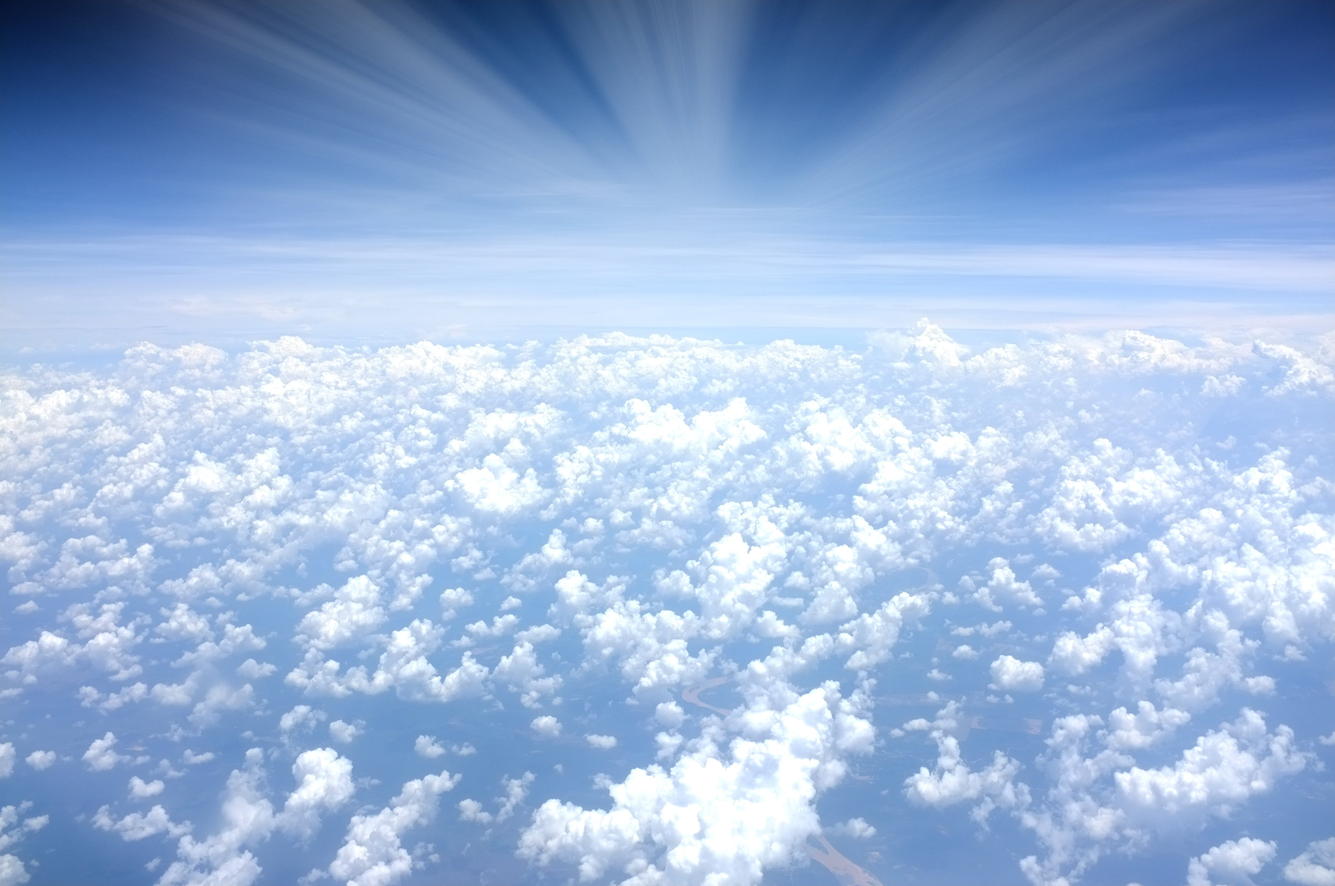
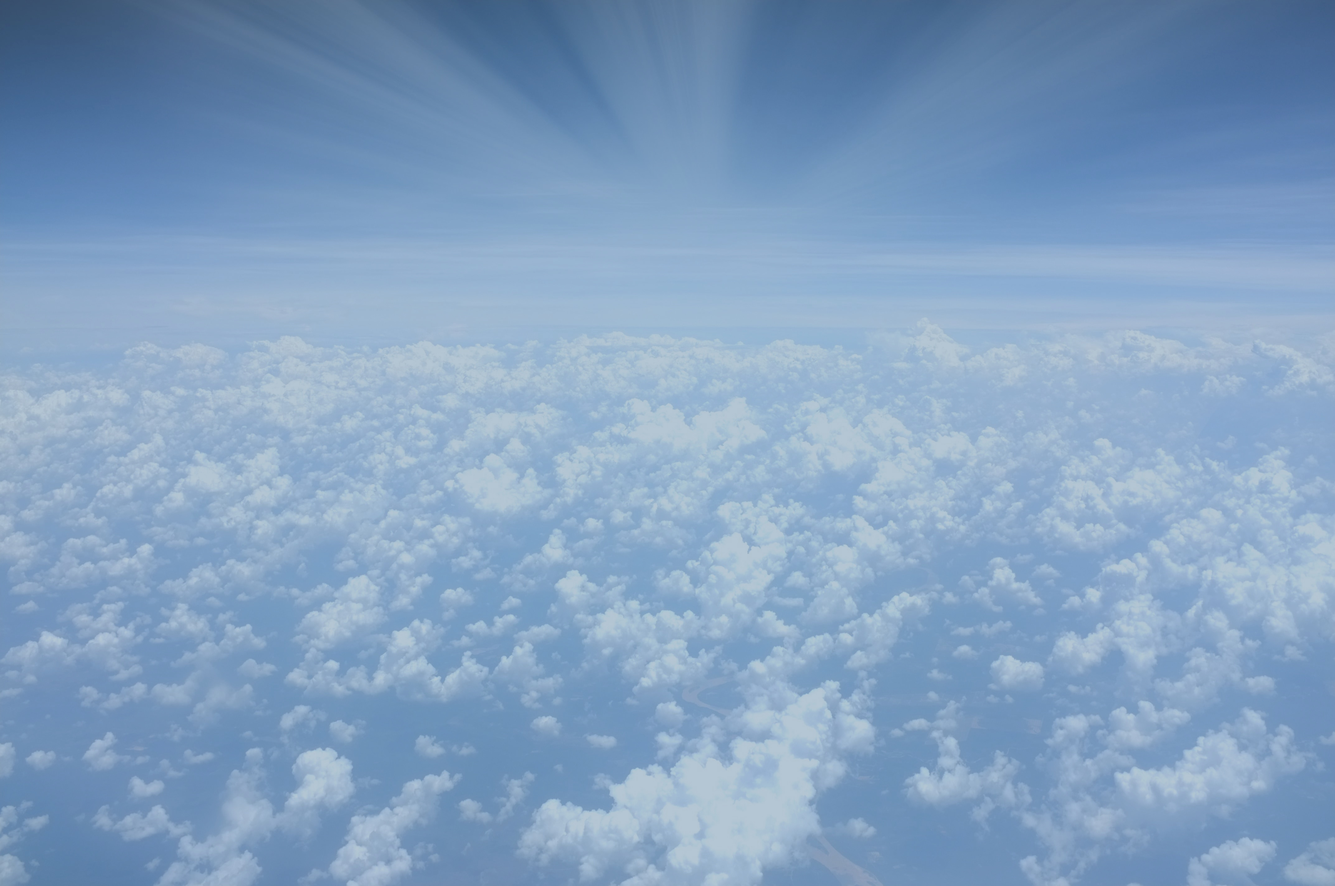
Work on playing the game.

diff --git a/public/views/play.html b/public/views/play.html
@@ -59,16 +59,26 @@
     <div class="container">
       <div class="row">
         <div class="col-md-12">
-          Welcome {{playerName}}
+          <h3>Welcome {{playerName}}</h3>
           <br/><br/>
         </div>
+        <div class="col-md-12 text-center" ng-hide="game.started">
+          <img alt="banner" src="img/banner_bg.png" class="banner center-block" />
+          <a class="btn btn-xlg" ng-click="startGame()" ng-show="isAdmin">Start Game</a>
+        </div>
+      </div>
+      <div class="row">
         <div class="col-md-12">
           <div class="row">
             <div class="col-md-12">
+              <div ng-repeat="player in game.players">
+                <div ng-show="game.started && !player.voted" style="background-color: transparent;border: 3px dotted #99ACBE;border-radius: 4px;height: 100px;width: 77px;padding-top: 29px;float: left;margin-right: 10px;margin-bottom: 20px;">
+                </div>
+              </div>
               <div class="cards" ng-repeat="vote in game.stories[game.currentStory].votes track by $index">
-                <div class="card">
+                <div class="card text-center">
                   <img alt="logo" src="img/card-logo.png" class="card-logo" />
-                  <span>{{vote.playerName}}</span>
+                  <div class="name">{{vote.playerName}}</div>
                 </div>
               </div>
             </div>
@@ -114,14 +124,14 @@
                   <td ng-if="isAdmin">
                     <div class="btn-group" role="group">
                       <button type="button" class="btn btn-sm">Nudge</button>
-                      <button type="button" class="btn btn-sm">Kick</button>
+                      <button type="button" class="btn btn-sm" ng-click="kickPlayer(player)">Kick</button>
                     </div>
                   </td>
                 </tr>
               </tbody>
             </table>
           </div>
-          <div class="results" ng-if="isAdmin">
+          <div class="results" ng-if="isAdmin" ng-show="game.stories[game.currentStory].votes.length">
             <div class="results-heading">
               Results
             </div>
@@ -146,7 +156,7 @@
   </div>
 
 </main>
-<div class="selection-section">
+<div class="selection-section" ng-show="game.started">
   <div class="container">
     <div class="row">
       <div class="col-md-12">
@@ -155,13 +165,10 @@
       </div>
     </div>
     <div class="row">
-
       <div class="col-md-12">
-        
-          <div class="card" ng-repeat="card in cardSelections track by $index" ng-click="vote(card)">
+          <div class="card" ng-repeat="card in cardSelections track by $index" ng-click="vote($event, card)">
             <span>{{card.name}}</span>
           </div>
-
       </div>
     </div>
   </div>

diff --git a/public/js/controllers/play.controller.js b/public/js/controllers/play.controller.js
@@ -104,7 +104,7 @@ angular.module('playCtrl', ['authService'])
   /**
    * Vote on current story.
    */
-  $scope.vote = function (data) {
+  $scope.vote = function ($event, data) {
 
     var vote = {
       playerName : $scope.playerName,
@@ -112,9 +112,13 @@ angular.module('playCtrl', ['authService'])
       value      : data.value
     };
 
+    $scope.game.players[$scope.playerName].voted = true;
+
     $scope.game.stories[$scope.game.currentStory].votes.push(vote);
 
     $scope.updateGame();
+
+    $($event.currentTarget).addClass('magictime slideUp');
 
   };
 
@@ -124,7 +128,7 @@ angular.module('playCtrl', ['authService'])
    */
   $scope.join = function () {
 
-    var playerName = $window.localStorage.getItem('username');
+    var playerName = $window.localStorage.getItem('playerName');
 
     if (playerName) {
 
@@ -144,27 +148,42 @@ angular.module('playCtrl', ['authService'])
    */
   $scope.addPlayer = function () {
 
-    var username = $('#player-name').val();
+    var playerName = $('#player-name').val();
 
-    console.log("Player Name: " + username);
+    console.log("Player Name: " + playerName);
 
-    $scope.game.players.push(username);
-    $scope.game.username = $window.localStorage.setItem('username', username);
+    $window.localStorage.setItem('playerName', playerName);
 
-    $scope.game.username = username;
 
     $('#playerModal').modal('hide');
 
-    socket.emit('join', { gameId : $scope.gameId, username : username});
-    $scope.playerName = username;
+    socket.emit('join', { gameId : $scope.gameId, playerName : playerName});
+    $scope.playerName = playerName;
+
+  };
+
+  /**
+   * Starts the game.
+   */
+  $scope.startGame = function () {
+
+    socket.emit('start game');
+    return false;
+
+  };
+
+  $scope.kickPlayer = function (player) {
+
+    console.log('Kick player :' + player.playerName + player.socketId);
+    socket.emit('kick player', {socketId : player.socketId});
 
   };
 
   // Socket Events
   socket.on('user joined', function (data) {
 
-    var username = data.playerName;
-    console.log('user Joined : ' + username);
+    var playerName = data.playerName;
+    console.log('user Joined : ' + playerName);
 
     $scope.game = data.game;
 
@@ -172,8 +191,8 @@ angular.module('playCtrl', ['authService'])
 
   socket.on('user left', function (data) {
 
-    var username = data.username;
-    console.log('user left : ' + username);
+    var playerName = data.playerName;
+    console.log('user left : ' + playerName);
 
     $scope.game = data.game;
 

diff --git a/js/app.js b/js/app.js
@@ -29,7 +29,7 @@ var createGame = function (gameId) {
   var game = games[gameId] = {};
 
   game.id           = gameId;
-  game.URL          = '';
+  game.started      = false;
   game.players      = {};
   game.stories      = {};
   game.currentStory = "CCDS-221";
@@ -80,6 +80,8 @@ io.on('connection', function (socket) {
     var gameId     = data.gameId;
     var playerName = data.playerName;
 
+    socket.join(gameId);
+
     console.log('Game Id: '  + gameId);
     console.log('playerName: ' + playerName);
 
@@ -89,12 +91,12 @@ io.on('connection', function (socket) {
     console.log('Socket playerName: ' + socket.playerName);
 
     getGame(gameId).numOfPlayers++;
-    getGame(gameId).players[playerName] = { playerName:playerName, voted: false, score:0 };
+    getGame(gameId).players[playerName] = { playerName:playerName, voted: false, score:0, socketId: socket.id };
 
     console.log('Number of Users: ' + getGame(gameId).numOfPlayers);
     console.log('Players: ' + getGame(gameId).players);
 
-    io.emit('user joined', {game: getGame(gameId), playerName: playerName});
+    io.to(gameId).emit('user joined', {game: getGame(gameId), playerName: playerName});
 
   });
 
@@ -109,7 +111,7 @@ io.on('connection', function (socket) {
     console.log('Username disconnected: ' + socket.playerName);
     console.log('Number of Users: ' + getGame(socket.gameId).numOfPlayers);
 
-    io.emit('user left', {game: getGame(socket.gameId), playerName: socket.playerName});
+    io.to(socket.gameId).emit('user left', {game: getGame(socket.gameId), playerName: socket.playerName});
 
   });
 
@@ -118,12 +120,25 @@ io.on('connection', function (socket) {
    */
   socket.on('update game', function (data) {
 
-    console.log(data);
-
     var gameId    = data.gameId;
     games[gameId] = data.game;
 
-    io.emit('game updated', {game: games[gameId]});
+    io.to(gameId).emit('game updated', {game: games[gameId]});
+
+  });
+
+  socket.on('start game', function () {
+
+    getGame(socket.gameId).started = true;
+    io.to(socket.gameId).emit('game updated', {game: games[socket.gameId]});
+
+  });
+
+  socket.on('kick player', function (data) {
+
+    var userIdToBeKicked = data.socketId
+
+    socket.clients[userIdToBeKicked].onDisconnect();
 
   });
 

diff --git a/public/css/main.css b/public/css/main.css
@@ -110,6 +110,16 @@ body {
   color: #4C4F5D;
 }
 
+a.btn-xlg {
+  background-color: #CC325A;
+  border-color: #CC325A;
+  padding:15px 25px;
+  font-size: 22px;
+  color:#FFF;
+  font-weight: 900;
+  margin-top:40px;
+}
+
 div.main {
   background: url(../img/bg.jpg) no-repeat top center fixed;
   /* Set rules to fill background */
@@ -127,7 +137,6 @@ div.main {
 }
 
 div.main div.overlay {
-  background: rgba(106, 140, 167, 0.5);
   /* Set rules to fill background */
   min-height: 100%;
   min-width: 1024px;
@@ -289,7 +298,6 @@ main div.sub-header div.container div.row div.start-story button.start-pointing 
   background-color: #76AB8C;
   color: #FFF;
   float: right;
-  ;
   margin-left: 20px;
 }
 
@@ -311,6 +319,11 @@ main div.sub-header div.container div.row div.start-story button:hover {
   color: #C8DCED;
 }
 
+.banner {
+  width: 500px;
+  opacity: 0.2;
+}
+
 main div.results-section {
   margin-top: 20px;
   margin-bottom: 20px;
@@ -324,13 +337,18 @@ main div.results-section div.container div.row div.cards div.card {
   background-color: #AEBFCE;
   border: 3px solid #99ACBE;
   border-radius: 4px;
-  height: 130px;
-  width: 100px;
-  padding-top: 36px;
-  padding-left: 18px;
+  height: 100px;
+  width: 77px;
+  padding-top: 25px;
   float: left;
   margin-right: 15px;
   margin-bottom: 40px;
+}
+
+main div.results-section div.container div.row div.cards div.card div.name{
+  margin-top: 40px;
+  font-weight: bold;
+  width: 77px;
 }
 
 main div.results-section div.container div.row div.cards div.card img.card-logo {
